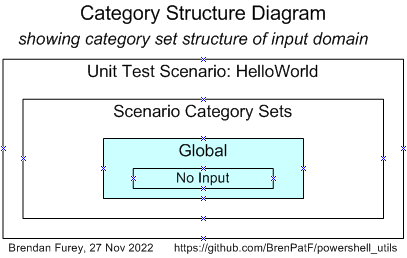
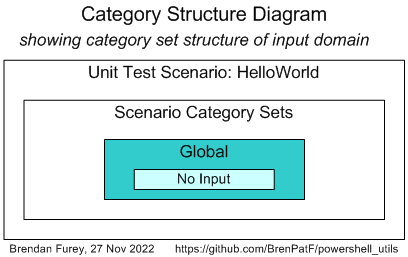
Added link to blog "The Math Function Unit Testing Design Pattern"
Made diagram colours consistent with the blog.

diff --git a/TrapitUtils/README.md b/TrapitUtils/README.md
@@ -5,7 +5,7 @@
 
 :hammer_and_wrench: :detective:
 
-This module contains two powershell utility functions for unit testing following the Math Function Unit Testing design pattern. The first one supports the design pattern for testing in any language:
+This module contains two powershell utility functions for unit testing following [The Math Function Unit Testing Design Pattern](https://brenpatf.github.io/2023/06/05/the-math-function-unit-testing-design-pattern.html). The first one supports the design pattern for testing in any language:
 
 - `Write-UT_Template` creates a template for the JSON input file required by the design pattern, based on CSV files specifying the structure. The template file includes scenarios that may be assigned against category sets, with placeholder records to be updated manually
 
@@ -35,7 +35,7 @@ I explained the concepts for the unit testing design pattern in relation specifi
 
 - [The Database API Viewed As A Mathematical Function: Insights into Testing](https://www.slideshare.net/brendanfurey7/database-api-viewed-as-a-mathematical-function-insights-into-testing)
 
-I later named the approach 'The Math Function Unit Testing design pattern' when I applied it in Javascript and wrote a JavaScript program to format results both in plain text and as HTML pages:
+I later named the approach [The Math Function Unit Testing Design Pattern](https://brenpatf.github.io/2023/06/05/the-math-function-unit-testing-design-pattern.html) when I applied it in Javascript and wrote a JavaScript program to format results both in plain text and as HTML pages:
 - [Trapit - JavaScript Unit Tester/Formatter](https://github.com/BrenPatF/trapit_nodejs_tester)
 
 The module also allowed for the formatting of results obtained from testing in languages other than JavaScript by means of an intermediate output JSON file. In 2021 I developed a powershell module that included a utility to generate a template for the JSON input scenarios file required by the design pattern:
@@ -69,7 +69,7 @@ At a high level the Math Function Unit Testing design pattern involves three mai
 2. Create a results object based on the input file, but with actual outputs merged in, based on calls to the unit under test
 3. Use the results object to generate unit test results files formatted in HTML and/or text
 
-<img src="png/Math Function UT DP - HL Flow.png">
+<img src="png/HLS.png">
 
 The first and third of these steps are supported by generic utilities that can be used in unit testing in any language. The second step uses a language-specific unit test driver utility.
 
@@ -80,9 +80,9 @@ For non-JavaScript programs the results object is materialized using a library p
 This creates a subfolder with name based on the unit test title within the file, and also outputs a summary of the results. The processing is split between three code units:
 - Test Unit: External library function that drives the unit testing with a callback to a specific wrapper function
 - Specific Test Package: This has a 1-line main program to call the library driver function, passing in the callback wrapper function
-- Unit Under Test: Called by the wrapper function, which converts between its specific inputs and outputs and the generic version used by the library package
+- Unit Under Test (API): Called by the wrapper function, which converts between its specific inputs and outputs and the generic version used by the library package
 
-<img src="png/MFUTDP - Flow-Ext.png">
+<img src="png/PFD-Ext.png">
 
 In the first step the external program creates the output results JSON file, while in the second step the file is read into an object by the Trapit library package, which then formats the results.
 
@@ -252,7 +252,7 @@ Hello World!
 
 Here is a diagram of the input and output groups for this example:
 
-<img src="png/powershell_utils-JSD-HW.png">
+<img src="png/JSD-HW.png">
 
 From the input and output groups depicted we can construct CSV files with flattened group/field structures, and default values added, as follows (with `helloworld_inp.csv` left, `helloworld_out.csv` right):
 <img src="png/groups - helloworld.png">
@@ -496,7 +496,7 @@ The example illustrates how a wrapper function can handle `impure` features of t
 
 Here is a diagram of the input and output groups for this example:
 
-<img src="png/powershell_utils-JSD-CG.png">
+<img src="png/JSD-CG.png">
 
 From the input and output groups depicted we can construct CSV files with flattened group/field structures, and default values added, as follows (with `colgrp_inp.csv` left, `colgrp_out.csv` right):
 <img src="png/groups - colgroup.png">
@@ -794,7 +794,7 @@ This is a pure function that is called by Write-UT_Template, which writes its re
 ```powershell
 Test-Unit($inpFile, $outFile, $purelyWrapUnit)
 ```
-Unit tests a unit using the Math Function Unit Testing design pattern with input data read from a JSON file, and output results written to an output JSON file, with parameters:
+Unit tests a unit using [The Math Function Unit Testing Design Pattern](https://brenpatf.github.io/2023/06/05/the-math-function-unit-testing-design-pattern.html) with input data read from a JSON file, and output results written to an output JSON file, with parameters:
 
 * `$inpFile`: input JSON file, with input and expected output data
 * `$outFile`: output JSON file, with input, expected and actual output data
@@ -889,7 +889,7 @@ This will create a folder TrapitUtils under the first folder in your `psmodulepa
 [&darr; Step 2: Create Results Object](#step-2-create-results-object-1)<br />
 [&darr; Step 3: Format Results](#step-3-format-results-1)<br />
 
-In this section the unit testing core API function Get-UT_TemplateObject is itself tested using the Math Function Unit Testing design pattern. A 'pure' wrapper function is constructed that takes input parameters and returns a value, and is tested within a loop over scenario records read from a JSON file.
+In this section the unit testing core API function Get-UT_TemplateObject is itself tested using [The Math Function Unit Testing Design Pattern](https://brenpatf.github.io/2023/06/05/the-math-function-unit-testing-design-pattern.html). A 'pure' wrapper function is constructed that takes input parameters and returns a value, and is tested within a loop over scenario records read from a JSON file.
 
 ### Step 1: Create JSON File
 [&uarr; Unit Testing](#unit-testing)<br />
@@ -906,7 +906,7 @@ Get-UT_TemplateObject($inpGroupLis, $outGroupLis, $delimiter, $sceLis)
 ```
 where the parameters are described in the API section above. The diagram below shows the structure of the input and output of the wrapper function.
 
-<img src="png/powershell_utils-JSD-UT.png">
+<img src="png/JSD-TrapitUtils.png">
 
 From the input and output groups depicted we can construct CSV files with flattened group/field structures, and default values added, as follows (with `get_ut_template_object_inp.csv` left, `get_ut_template_object_out.csv` right):
 <img src="png/groups - ut.png">
@@ -954,7 +954,7 @@ Apply to:
 
 After analysis of the possible scenarios in terms of categories and category sets, we can depict them on a Category Structure diagram:
 
-<img src="png/CSD-UT.png">
+<img src="png/CSD-TrapitUtils.png">
 
 We can tabulate the results of the category analysis, and assign a scenario against each category set/category with a unique description:
 
@@ -1182,6 +1182,7 @@ There are four subfolders below the trapit root folder, which has README and mod
 
 ## See Also
 [&uarr; In This README...](#in-this-readme)<br />
+- [The Math Function Unit Testing Design Pattern](https://brenpatf.github.io/2023/06/05/the-math-function-unit-testing-design-pattern.html)
 - [Trapit - JavaScript Unit Tester/Formatter](https://github.com/BrenPatF/trapit_nodejs_tester)
 - [Unit Testing, Scenarios and Categories: The SCAN Method](https://brenpatf.github.io/jekyll/update/2021/10/17/unit-testing-scenarios-and-categories-the-scan-method.html)
 - [Powershell General Utilities Module](https://github.com/BrenPatF/powershell_utils/tree/master/Utils)

diff --git a/Utils/README.md b/Utils/README.md
@@ -9,7 +9,7 @@ This module comprises a set of generic powershell functions for 'pretty-printing
 
 Its use is demonstrated by examples including a simple file-reading and group-counting class module.
 
-It is unit tested using the Math Function Unit Testing design pattern, described here in general: [Trapit - JavaScript Unit Tester/Formatter](https://github.com/BrenPatF/trapit_nodejs_tester)
+The package is tested using [The Math Function Unit Testing Design Pattern](https://brenpatf.github.io/2023/06/05/the-math-function-unit-testing-design-pattern.html), with test results in HTML and text format included.
 
 # In this README...
 [&darr; Usage](#usage)<br />
@@ -240,7 +240,7 @@ The powershell package includes an npm package to format the unit test output JS
 [&darr; Step 2: Create Results Object](#step-2-create-results-object)<br />
 [&darr; Step 3: Format Results](#step-3-format-results)<br />
 
-The package is tested using the Math Function Unit Testing design pattern, described here:  [Trapit - JavaScript Unit Tester/Formatter](https://github.com/BrenPatF/trapit_nodejs_tester). In this approach, a 'pure' wrapper function is constructed that takes input parameters and returns a value, and is tested within a loop over scenario records read from a JSON file.
+The package is tested using [The Math Function Unit Testing Design Pattern](https://brenpatf.github.io/2023/06/05/the-math-function-unit-testing-design-pattern.html). In this approach, a 'pure' wrapper function is constructed that takes input parameters and returns a value, and is tested within a loop over scenario records read from a JSON file.
 
 In this case, where we have a set of small independent methods, most of which are pure functions, the wrapper function is designed to test all of them in a single generalised transaction.
 
@@ -250,7 +250,7 @@ At a high level the Math Function Unit Testing design pattern involves three mai
 2. Create a results object based on the input file, but with actual outputs merged in, based on calls to the unit under test
 3. Use the results object to generate unit test results files formatted in HTML and/or text
 
-<img src="png/Math Function UT DP - HL Flow.png">
+<img src="png/HLS.png">
 
 The first and third of these steps are supported by generic utilities that can be used in unit testing in any language. The second step uses a language-specific unit test driver utility.
 
@@ -264,7 +264,7 @@ The first and third of these steps are supported by generic utilities that can b
 
 The diagram below shows the structure of the input and output of the wrapper function.
 
-<img src="png/Utils-JSD.png">
+<img src="png/JSD-Utils.png">
 
 From the input and output groups depicted we can construct CSV files with flattened group/field structures, and default values added, as follows (with `ps_utils_inp.csv` left, `ps_utils_out.csv` right):
 <img src="png/groups - ut.png">
@@ -319,7 +319,7 @@ The generic category set of multiplicity is applicable very frequently, and we s
 
 After analysis of the possible scenarios in terms of categories and category sets, we can depict them on a Category Structure diagram:
 
-<img src="png/Utils-CSD.png">
+<img src="png/CSD-Utils.png">
 
 We can tabulate the results of the category analysis, and assign a scenario against each category set/category with a unique description:
 
@@ -451,6 +451,7 @@ There are three subfolders below the trapit root folder, which has README and mo
 
 ## See Also
 [&uarr; In this README...](#in-this-readme)<br />
+- [The Math Function Unit Testing Design Pattern](https://brenpatf.github.io/2023/06/05/the-math-function-unit-testing-design-pattern.html)
 - [Trapit - JavaScript Unit Tester/Formatter](https://github.com/BrenPatF/trapit_nodejs_tester)
 - [Unit Testing, Scenarios and Categories: The SCAN Method](https://brenpatf.github.io/jekyll/update/2021/10/17/unit-testing-scenarios-and-categories-the-scan-method.html)
 - [Powershell Trapit Unit Testing Utilities Module](https://github.com/BrenPatF/powershell_utils/tree/master/TrapitUtils)
